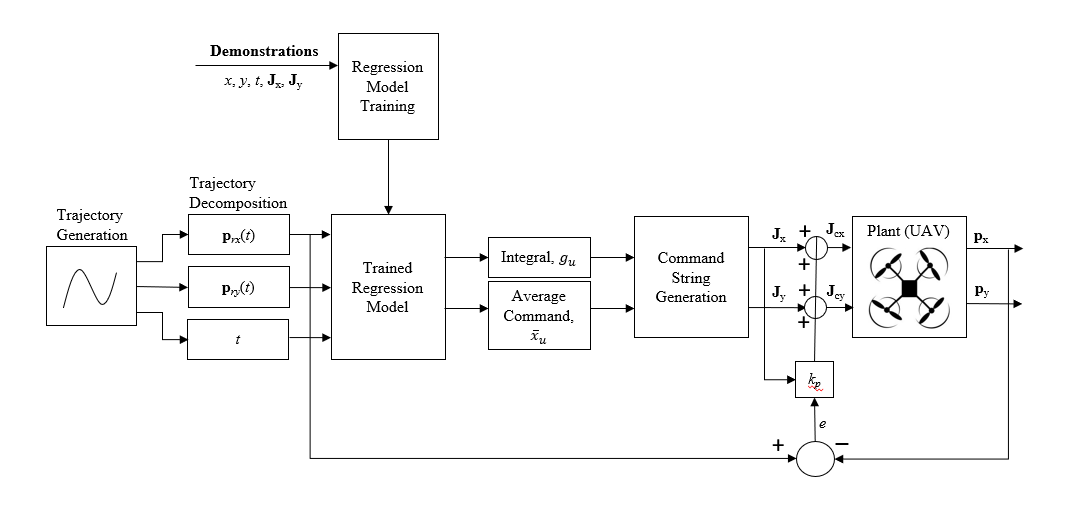
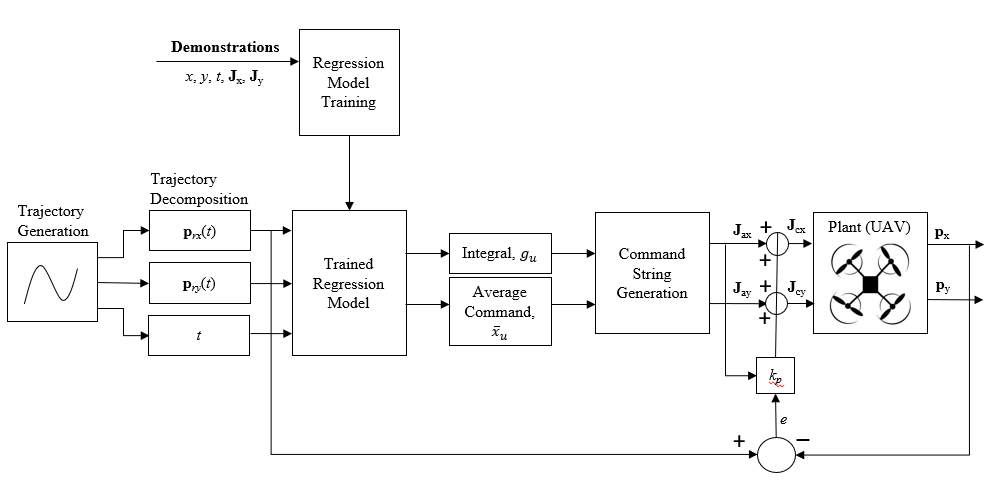
Updates from Overleaf

diff --git a/root.tex b/root.tex
@@ -180,16 +180,21 @@ In this section, we show how we generate trajectory based on given waypoints. We
 
 From the system dynamics, we know that input commands are responsible for specific motions of the system. Roll enables lateral motion while enables longitudinal motion. Yaw enables rotations around the center of mass and thrust is mostly responsible for changes in height along the global $z$ coordinate. For ease of discussion in this work we do not consider yaw, as we are primarily interested in planar motion, which also implies that the height is kept constant. As a result, any planar motion assuming constant $z$ can be represented as a combination of roll and pitch commands, or commands that send the vehicle in along the global $x$ and $y$ coordinates.
 
-The smooth trajectory we generate in this work is a minimum jerk trajectory[CITE] for a series of waypoints. 
+For our purposes, we use the minimum jerk trajectory as a starting point. Jerk is defined as the time derivative of acceleration and is often associated rapidly changing actuator forces. [CITE] The general equation for a minimum jerk trajectory is as follows:
+
+
+\begin{equation}
+    \mathbf{p}*(t) = \argmin_{p(t)}\int_0^T\mathcal{L}(\dddot{p},\ddot{p},\dot{p},p,t)dt =  \argmin_{p(t)}\int_0^T
+\end{equation}
 
 
 
 
 \subsection{Regression Based Training and Evaluation} \label{sec:train}
 In order to build the appropriate policy for autonomous command generation, we perform offline training on data collected over $m$ human-piloted trials. Because the goal indicated in our problem statement is to be able to track a certain trajectory, the inputs of the training phase are $\{d_i,t_i,\mathbf{J_i}\}$, where $i=1,\ldots,m$ reflects the number of demonstrations, %\NB{what is $i$?} 
-$d_i$ is the distance travelled in each trial, $t_i$ is the length of the trial, and $\mathbf{J_i}$ is the sequence of user teleoperation commands. The outputs of our training phase are \begin{itemize}
-    \item The integral of the string of teleoperation commands, $g_i = \int_0^{t_i}\mathbf{J_i}$
-    \item The steady-state, or average, teleoperation command, $\bar{j}_i \in \mathbf{J_i}$
+$d_i$ is the distance travelled in each trial, $t_i$ is the length of the trial, and $\mathbf{J}_i$ is the sequence of user teleoperation commands. The outputs of our training phase are \begin{itemize}
+    \item The integral of the string of teleoperation commands, $g_i = \int_0^{t_i}\mathbf{J}_i$
+    \item The steady-state, or average, teleoperation command, $\bar{j}_i \in \mathbf{J}_i$
     \item The position of the system at all times, $\mathbf{p}(t)$
 \end{itemize}
 %\NB{here it's confusing. Be careful, we are mixing input with outputs.Inout is the distance, time and sequence of commands while the output is the intgeral of the commands, the steady stae teleop, and the state, position, covered by the system}
@@ -320,34 +325,34 @@ Using the maximum distance for each point $\Delta_i$, we are able the generate i
 
 \subsection{Autonomous Behaviour Generation}
 
-In order for the system to autonomously reach a user-set goal, $g_u$ and $\bar{x}_u$ are obtained using equations \eqref{eq:integralfit} and \eqref{eq:ssvelfit}, and the offline training samples are leveraged to generate a new string of commands. A string of commands is generated for each leg of a trajectory, as described in Section \ref{sec:traj}.
+In order for the system to autonomously reach a user-set goal, $g_u$ and $\bar{j}_u$ are obtained using equations \eqref{eq:integralfit} and \eqref{eq:ssvelfit}, and the offline training samples are leveraged to generate a new string of commands. A string of commands is generated for each leg of a trajectory, as described in Section \ref{sec:traj}.
 
 From the training set of $m$ samples, we select the trial that has the closest integral, $g_i$, to the estimated integral $g_u$. This is done by forming an error vector, $\mathbf{e}\in\R^{m}$, where each element is defined by
 
 \begin{equation}
  e_i = \vert g_i-g_u \vert , ~i= \{1,\ldots,m\}
 \end{equation}
- The lowest error is then found and is paired with the appropriate pre-trained sample, $\mathbf{x}^*$,
+ The lowest error is then found and is paired with the appropriate pre-trained sample, $\mathbf{J}^*$,
 
 \begin{equation}
-\mathbf{x}^* = \mathbf{x}_i \in \mathbf{x}\vert e_i = \min_e(\mathbf{e})
+\mathbf{J}^* = \mathbf{J}_i \in \mathbf{J}\vert e_i = \min_e(\mathbf{e})
 \end{equation}
 
-This optimal pre-trained sample is then adjusted to reflect the user-set time, $t_u$. This is done by performing vector interpolation to re-size $\mathbf{x}^*$, such that important features in the optimal command vector are not lost. These methods are often used for re-sizing complex images, and have shown effectiveness in minimizing feature loss [CITE]. Bicubic interpolation is our chosen method for re-sizing, as it performs better than nearest-neighbor and bilinear interpolation methods, while only marginally increasing computational complexity [CITE]. The general form of a bicubic interpolation equation is 
+This optimal pre-trained sample is then adjusted to reflect the user-set time, $t_u$. This is done by performing vector interpolation to re-size $\mathbf{J}^*$, such that important features in the optimal command vector are not lost. These methods are often used for re-sizing complex images, and have shown effectiveness in minimizing feature loss [CITE]. Bicubic interpolation is our chosen method for re-sizing, as it performs better than nearest-neighbor and bilinear interpolation methods, while only marginally increasing computational complexity [CITE]. The general form of a bicubic interpolation equation is 
 
 \begin{equation} \label{eq:bicinter}
     p(x) = \sum_{i=0}^3a_ix^i
 \end{equation}
 
-where $x$ is an entry in vector $\mathbf{x}^*$ and $a$ represents the coefficients of the function at each point. Bicubic interpolation takes the weighted sum of the four nearest neighbors of each entry in the command vector in order to identify a function for the intermediate points between each value in $\mathbf{x}^*$. After resizing, we obtain the time adjusted input vector $\mathbf{x}'$.
+where $x$ is an entry in vector $\mathbf{J}^*$ and $a$ represents the coefficients of the function at each point. Bicubic interpolation takes the weighted sum of the four nearest neighbors of each entry in the command vector in order to identify a function for the intermediate points between each value in $\mathbf{J}^*$. After resizing, we obtain the time adjusted input vector $\mathbf{J}'$.
 
-The next step is to adjust the input vector such that the system reaches the user-set goal $d_u$. This is done by leveraging the average velocity information, that is, $\bar{x}_u$. Because distance is a function of average velocity and time, the scale time-adjusted vector $\mathbf{x}'$ is scaled such that its mean is equivalent to $\bar{x}_u$. We then obtain
+The next step is to adjust the input vector such that the system reaches the user-set goal $d_u$. This is done by leveraging the average velocity information, that is, $\bar{j}_u$. Because distance is a function of average velocity and time, the scale time-adjusted vector $\mathbf{J}'$ is scaled such that its mean is equivalent to $\bar{j}_u$. We then obtain
 
 \begin{equation} \label{eq:imgscale}
-\mathbf{x}_a = \mathbf{x}'\bigg(\frac{\bar{x}_u}{\bar{x}'}\bigg)
+\mathbf{J}_a = \mathbf{J}'\bigg(\frac{\bar{j}_u}{\bar{j}'}\bigg)
 \end{equation}
 
-In Fig.\ref{fig:gensample}, we show visually the steps of command generation. In Fig.\ref{fig:ogstring}, we start with the original pre-trained command string that was shown above in Fig.\ref{fig:sampleintegral}. This flight travelled approximately $4.4$ seconds for $3$ meters. For testing purposes, our use input values are $d_u=3.5$m and $t_u=3.75$s. As indicated, a time adjustment is made first; this is shown in Fig.\ref{fig:timeadj}. It is important to note that the average command, indicated by the dashed line, is still the same, which is a verification of feature retention using bicubic interpolation from \eqref{eq:bicinter}. If the vector were just stretched without using an interpolation method, we would expect slight variation in the mean, which could damage the integrity of the final step, shown in Fig.\ref{fig:fullyadj}, which is obtained using \eqref{eq:imgscale}. At this point we have obtained the autonomous command string $\mathbf{x}_a$, which is then sent to the UAV to reach the goals set by the user.
+In Fig.\ref{fig:gensample}, we show visually the steps of command generation. In Fig.\ref{fig:ogstring}, we start with the original pre-trained command string that was shown above in Fig.\ref{fig:sampleintegral}. This flight travelled approximately $4.4$ seconds for $3$ meters. For testing purposes, our use input values are $d_u=3.5$m and $t_u=3.75$s. As indicated, a time adjustment is made first; this is shown in Fig.\ref{fig:timeadj}. It is important to note that the average command, indicated by the dashed line, is still the same, which is a verification of feature retention using bicubic interpolation from \eqref{eq:bicinter}. If the vector were just stretched without using an interpolation method, we would expect slight variation in the mean, which could damage the integrity of the final step, shown in Fig.\ref{fig:fullyadj}, which is obtained using \eqref{eq:imgscale}. At this point we have obtained the autonomous command string $\mathbf{J}_a$, which is then sent to the UAV to reach the goals set by the user.
 
 
 \begin{figure}[h]
@@ -367,10 +372,10 @@ The commands generated in the previous section are generated and sent to the UAV
     \xi(t) = \mathbf{p}(t)-\mathbf{p_r}(t)
 \end{equation}
 
-The error $\xi(t)$ is attributed to the most recent command $\mathbf{x}_a(t)$, and a proportional controller is used to adjust the following command $\mathbf{x}_a(t+1)$ to obtain the closed-loop command $\mathbf{x}_c(t+1)$ as follows
+The error $\xi(t)$ is attributed to the most recent command $\mathbf{J}_a(t)$, and a proportional controller is used to adjust the following command $\mathbf{J}_a(t+1)$ to obtain the closed-loop command $\mathbf{J}_c(t+1)$ as follows
 
 \begin{equation}
-    \mathbf{x}_c(t+1) = \mathbf{x}_a(t+1) + k_p(t)\xi(t)
+    \mathbf{J}_c(t+1) = \mathbf{J}_a(t+1) + k_p(t)\xi(t)
 \end{equation}
 
 The proportional gain, $k_p(t)$, is automatically tuned based loosely off the Ziegler-Nichols method [CITE] where the proportional gain is increased until there is stable and consistent oscillation in the output, which in our case, is the position error, $\xi(t)$. In order to set the interval of gain increase each iteration, we leverage the ratio of reference position to actual position:
